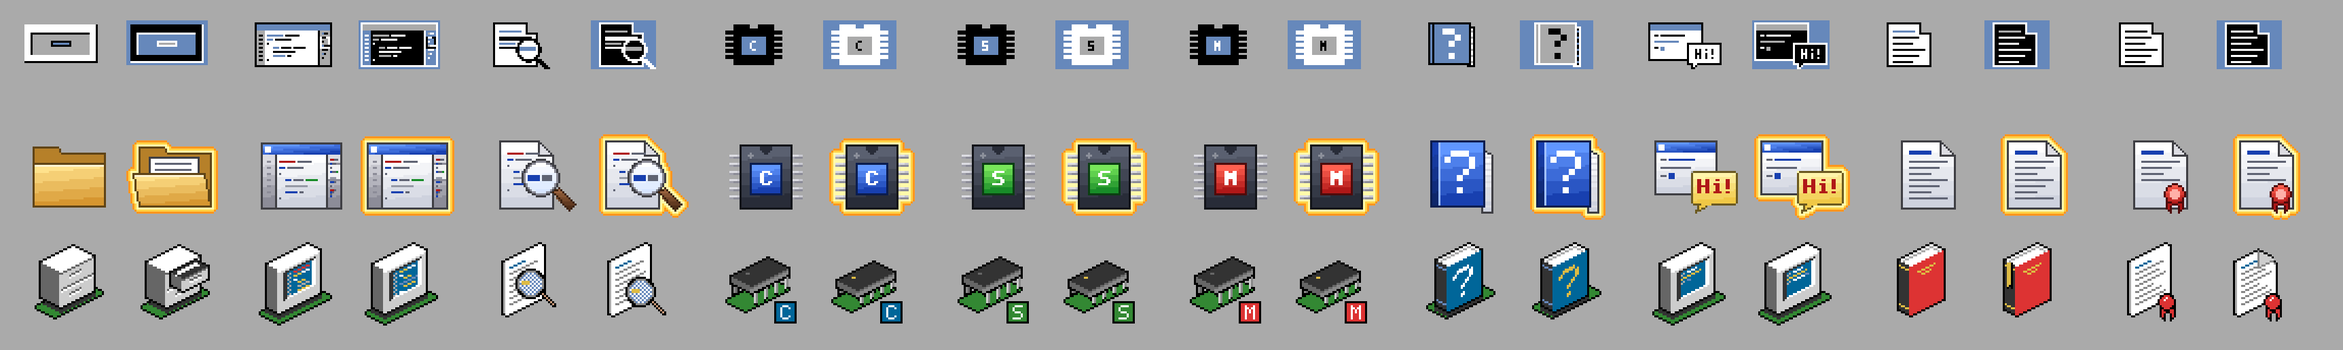
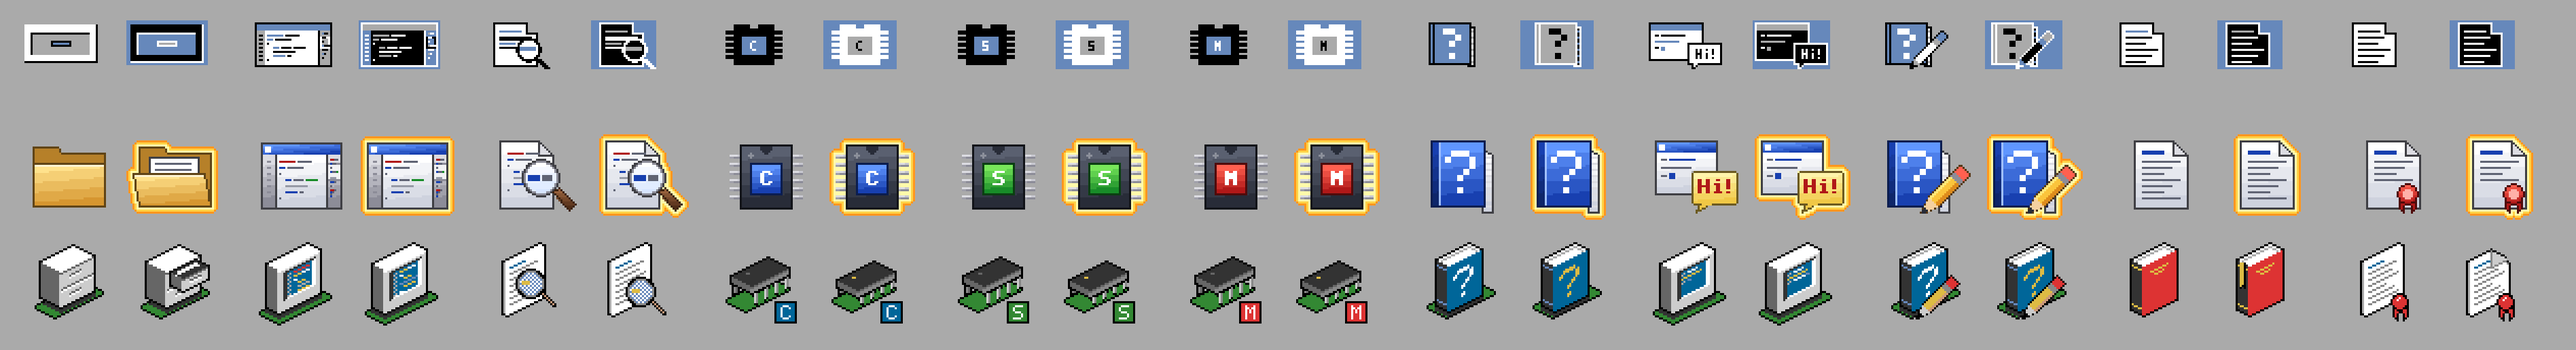
Template HelpProject: help pages in Markdown
Writing a help for the HelpViewer should start from a working project, so
the new template brings a small tree of Markdown pages, the page frame
template.html and the commands of the Build menu. Build and Run reach
mdtohtml and the HelpViewer through {tinydev}, as neither is on the
command path. Rebuild also removes Help/, since the normal build only
reports pages without a source and never deletes anything.

Run starts a new viewer each time on purpose: with PORTNAME a running viewer
of the same drawer only comes to the front and would keep showing the old
page while the author checks a change.

The template's icon is the HelpViewer's handbook with a pencil, drawn at
45 degrees so that its edges fall on the pixel grid.

diff --git a/templates/HelpProject/files/template.html b/templates/HelpProject/files/template.html
@@ -1,0 +1,13 @@
+<!DOCTYPE html>
+<html>
+<head>
+<meta charset="$encoding$">
+<title>$title$</title>
+</head>
+<body>
+<!-- A picture on every page: put it into src/images/ and use the line below;
+     the placeholder finds it from pages in any drawer.
+     <img src="$root$images/logo.png" alt=""> -->
+$body$
+</body>
+</html>

diff --git a/tools/mkicons.py b/tools/mkicons.py
@@ -15,11 +15,13 @@
 #   helpviewer a blue handbook with a question mark on its cover
 #   hello      a Shell window that says "Hi!" in a speech bubble (the
 #              template HelloWorld)
+#   helppages  the handbook of the HelpViewer with a pencil that writes it
+#              (the template HelpProject)
 #
 # Run directly (or "make icons") to write sample icons of all styles to
-# icons/<Style>/ and a preview picture icons/preview.png, and the icon of
-# the template HelloWorld (templates/HelloWorld/template.info, GlowIcons
-# with the classic picture for older systems).
+# icons/<Style>/ and a preview picture icons/preview.png, and the icons of
+# the templates HelloWorld and HelpProject (templates/<Id>/template.info,
+# GlowIcons with the classic picture for older systems).
 
 import os, sys
 
@@ -186,6 +188,52 @@ def pic_hello():
     return c
 
 
+def pencil(put, tx, ty, length, half, colours):
+    """ a pencil at 45 degrees, its tip at (tx, ty), pointing to the lower
+        left. u runs along it (one diagonal step is 2), v across it, so its
+        edges fall exactly on the pixel grid. half: half its width in v.
+        colours: edge, lead, wood, body (light, middle, dark across it),
+        band and eraser.                                                 """
+    tip = 3 * half + 1
+    lead = half + 2
+    for u in range(length + 1):
+        w = min(half, u // 3)
+        for v in range(-w - 1, w + 2):
+            if (u + v) % 2:
+                continue
+            if abs(v) > w or u == length:
+                p = colours['edge']
+            elif u < lead:
+                p = colours['lead']
+            elif u < tip:
+                p = colours['wood']
+            elif u >= length - 6:
+                p = colours['eraser']
+            elif u >= length - 10:
+                p = colours['band']
+            else:
+                p = colours['body'][0 if v < -half // 3 else 2 if v > half // 3 else 1]
+            put(tx + (u + v) // 2, ty - (u - v) // 2, p)
+
+
+def pic_helppages():
+    c = ai.Canvas(38, 24)
+    c.rect(22, 3, 25, 22, 2)                  # the handbook: pages, cover
+    for y in range(5, 22, 3):
+        c.rect(23, y, 25, y, 0)
+    c.frame(22, 3, 25, 22, 1, 1)
+    c.rect(3, 1, 23, 21, 3)
+    c.frame(3, 1, 23, 21, 1, 1)
+    c.rect(5, 1, 5, 21, 1)
+    for dy, row in enumerate(SMALL['?']):
+        for dx, p in enumerate(row):
+            if p == '#':
+                c.rect(9 + 3 * dx, 4 + 3 * dy, 11 + 3 * dx, 6 + 3 * dy, 2)
+    pencil(lambda x, y, p: c.rect(x, y, x, y, p), 15, 23, 34, 2,
+           {'edge': 1, 'lead': 1, 'wood': 0, 'body': (2, 2, 2), 'band': 0, 'eraser': 3})
+    return c
+
+
 # --------------------------------------------- GlowIcons motifs ---
 
 def m_tinydev(s, c):
@@ -255,6 +303,26 @@ def m_hello(s, c):
         glyph(c, x, 21, letter, RED[1])
         glyph(c, x + 1, 21, letter, RED[1])
         x += len(GLYPHS[letter][0]) + 3
+
+
+def m_helppages(s, c):
+    m_book = BLUE
+    pages = [(26, 6), (31, 9), (31, 37), (26, 37)]
+    c.poly(pages, s.ramp(*PAPER)(26, 6, 31, 37), s.line(GREY[1]))
+    for y in range(10, 36, 3):
+        c.line(27, y, 30, y, GREY[0])
+    c.rect(1, 2, 27, 34, s.line(m_book[1]))                     # the cover
+    c.rect(2, 3, 26, 33, s.ramp(*m_book)(2, 3, 26, 33))
+    c.rect(2, 3, 4, 33, s.ramp(m_book[1], ai.mix(m_book[1], BLACK, 0.4))(2, 3, 4, 33))
+    c.line(5, 3, 5, 33, ai.mix(m_book[0], WHITE, 0.4))
+    for dy, row in enumerate(GLYPHS['?']):
+        for dx, p in enumerate(row):
+            if p == '#':
+                c.rect(8 + 3 * dx, 7 + 3 * dy, 10 + 3 * dx, 9 + 3 * dy, WHITE)
+    pencil(c.put, 17, 38, 44, 4,
+           {'edge': (84, 56, 24), 'lead': (40, 44, 56), 'wood': (244, 208, 160),
+            'body': ((255, 232, 120), (250, 196, 60), (222, 140, 28)),
+            'band': GREY[1], 'eraser': RED[0]})
 
 
 def ring(c, cx, cy, r, colour):
@@ -389,6 +457,16 @@ def n_hello(c, sel):
     ai.n_monitor(c, screen, sel)
 
 
+def n_helppages(c, sel):
+    """ the handbook of the HelpViewer on its platform, a pencil in front of
+        it; selected: the question mark lights up yellow, as there         """
+    n_helpviewer(c, sel)
+    pencil(c.put, 18, 38, 38, 3,
+           {'edge': BLACK, 'lead': BLACK, 'wood': ai.N_G204,
+            'body': (ai.N_YELLOW, ai.N_YELLOW, ai.N_TAN),
+            'band': ai.N_G136, 'eraser': ai.N_RED})
+
+
 def ni_parser(letter, colour):
     def n(c, sel):
         """ a chip on its platform, pins along its long side, the language
@@ -448,6 +526,7 @@ ai.register('tinydev', pic_tinydev, m_tinydev, n_tinydev)
 ai.register('scout', pic_scout, m_scout, n_scout)
 ai.register('helpviewer', pic_helpviewer, m_helpviewer, n_helpviewer)
 ai.register('hello', pic_hello, m_hello, n_hello)
+ai.register('helppages', pic_helppages, m_helppages, n_helppages)
 PARSER_C = parser('C')
 PARSER_DOS = parser('S', GREEN, ai.N_GREEN)    # AmigaDOS scripts
 PARSER_MAKE = parser('M', RED, ai.N_RED)       # Makefiles
@@ -455,7 +534,7 @@ PARSER_MAKE = parser('M', RED, ai.N_RED)       # Makefiles
 
 # ---------------------------------------------------------------- samples ---
 
-ROLES = ('drawer', 'tinydev', 'scout', PARSER_C, PARSER_DOS, PARSER_MAKE, 'helpviewer', 'hello', 'readme', 'license')
+ROLES = ('drawer', 'tinydev', 'scout', PARSER_C, PARSER_DOS, PARSER_MAKE, 'helpviewer', 'hello', 'helppages', 'readme', 'license')
 
 SAMPLES = (('Drawer', 'drawer', WBDRAWER, {}),
            ('TinyDev', 'tinydev', WBTOOL, {'stack': 32768}),
@@ -465,12 +544,14 @@ SAMPLES = (('Drawer', 'drawer', WBDRAWER, {}),
            ('make_parser', PARSER_MAKE, WBTOOL, {'stack': 16384}),
            ('HelpViewer', 'helpviewer', WBTOOL, {'stack': 32768}),
            ('HelloWorld', 'hello', WBPROJECT, {}),
+           ('HelpProject', 'helppages', WBPROJECT, {}),
            ('ReadMe', 'readme', WBPROJECT, {'default_tool': 'SYS:Utilities/MultiView'}),
            ('License', 'license', WBPROJECT, {'default_tool': 'SYS:Utilities/MultiView'}))
 
 
 if __name__ == '__main__':
     ai.write_samples(os.path.join(ROOT, 'icons'), SAMPLES, ROLES)
-    # the template's icon, shown by TinyDev's wizard
-    write_icon(os.path.join(ROOT, 'templates', 'HelloWorld', 'template'), 'GlowIcons', 'hello', WBPROJECT)
-    print('template icon written to templates/HelloWorld/template.info')
+    # the templates' icons, shown by TinyDev's wizard
+    for tid, role in (('HelloWorld', 'hello'), ('HelpProject', 'helppages')):
+        write_icon(os.path.join(ROOT, 'templates', tid, 'template'), 'GlowIcons', role, WBPROJECT)
+        print('template icon written to templates/%s/template.info' % tid)

diff --git a/tests/test_sprout_tmpl.c b/tests/test_sprout_tmpl.c
@@ -511,6 +511,42 @@ static void test_text(void)
 }
 
 /**
+ * @brief The template templates/HelpProject: its metadata is valid and the
+ *        project's commands keep TinyDev's own placeholder.
+ */
+static void test_shipped_help(void)
+{
+    SproutTemplate t;
+    SproutValues given, out;
+    char json[4096];
+    char *name, *line;
+    size_t n;
+    int bad;
+    FILE *f = fopen("templates/HelpProject/template.json", "rb");
+    assert(f != NULL);
+    n = fread(json, 1, sizeof(json) - 1, f);
+    fclose(f);
+    json[n] = '\0';
+    reset();
+    assert(sprout_template_parse(&t, json, report, NULL) == 1);
+    sprout_values_init(&given);
+    assert(sprout_values_parse_assign(&given, "AUTHOR=Me") == 1);
+    assert(sprout_resolve(&t, &given, "My Help", 17835, &out, report, NULL) == 1);
+    assert(errors == 0 && warnings == 0);
+    assert(strcmp(sprout_values_get(&out, "TITLE"), "My Help") == 0);
+    assert(t.nopen == 1);
+    name = sprout_expand_path(t.open[0], &out, &bad);
+    assert(name != NULL && strcmp(name, "src/index.md") == 0);
+    free(name);
+    line = sprout_expand("{tinydev}mdtohtml $root$ {$TITLE}", 33, &out, NULL);
+    assert(line != NULL && strcmp(line, "{tinydev}mdtohtml $root$ My Help") == 0);
+    free(line);
+    sprout_values_free(&out);
+    sprout_values_free(&given);
+    sprout_template_free(&t);
+}
+
+/**
  * @brief The template that comes with TinyDev (templates/HelloWorld): its
  *        metadata is valid, and its values and names come out right.
  */
@@ -594,6 +630,7 @@ int main(void)
     test_paths();
     test_text();
     test_shipped();
+    test_shipped_help();
     puts("sprout template tests passed");
     return 0;
 }

diff --git a/AGENTS.md b/AGENTS.md
@@ -216,7 +216,8 @@ below the tree's root.
   -lh0-/-lh4- to -lh7-, CRCs; host-tested in `tests/test_sprout_lha.c`).
   Its design is `src/sprout/docs/Sprout.md`. Like Scout it must not
   depend on TinyDev.
-- `templates/`: the templates that come with TinyDev (HelloWorld, a
+- `templates/`: the templates that come with TinyDev (HelpProject, help
+  pages in Markdown built with `mdtohtml`; HelloWorld, a
   project; CModule, a file template) (`templates/<Id>/`
   with `template.json` and `files/`, ISO-8859-1); `make` copies them to
   `bin/Templates/` with `cp` and checks them with `charcheck-templates`,
@@ -265,7 +266,7 @@ below the tree's root.
 - `tests/test_projconf.c`: host-native tests of the project settings.
 - `tests/test_filetypes.c`: host-native tests of the settings per file type.
 - `tests/test_sprout_tmpl.c`: host-native tests of Sprout's core (also
-  reads `templates/HelloWorld/template.json`).
+  reads the `template.json` of `templates/HelloWorld` and `templates/HelpProject`).
 - `tests/test_sprout_lha.c`: host-native tests of the LhA reader with the
   archives of `tests/data/sprout/` (binary, left out of `charcheck`),
   made by `tools/mksprouttests.py` with jlha.
@@ -295,9 +296,9 @@ below the tree's root.
   unchanged and without our warning flags. Do not edit it; its licence
   requires the credit in `README.md`.
 - `tools/mkicons.py`: motifs of the Workbench icons (TinyDev, Scout, parsers,
-  HelpViewer, the template HelloWorld)
+  HelpViewer, the templates HelloWorld and HelpProject)
   for `amiga-devkit/tools/amigaicons.py`; `make icons` writes `icons/` and
-  `templates/HelloWorld/template.info`. These files are generated, never
+  `templates/<Id>/template.info` of both. These files are generated, never
   edited by hand.
 - `package/`: what the Aminet archive needs besides the build:
   `TinyDev.readme` (the Aminet readme, ISO-8859-1, at most 78 columns) and

diff --git a/src/sprout/docs/Sprout.md b/src/sprout/docs/Sprout.md
@@ -131,7 +131,7 @@ A placeholder entry:
   `{$I file}`, `{$H+}`): only the exact form `{$KEY}` or `{$KEY:modifier}`
   is a placeholder, and keys are upper case only.
 - It does not clash with TinyDev's build placeholders (`{project}`,
-  `{file}`, `{base}` in `project.json`), which a template's `project.json`
+  `{tinydev}`, `{file}`, `{base}` in `project.json`), which a template's `project.json`
   must keep, nor with `${VAR}` in Makefiles or `$VAR` in AmigaDOS scripts.
 
 **Escaping:** a placeholder written with one more `$` is not replaced but

diff --git a/templates/HelpProject/files/src/1-getting-started.md b/templates/HelpProject/files/src/1-getting-started.md
@@ -1,0 +1,16 @@
+# Getting started
+
+A page is a Markdown file. It can have **bold** and *italic* text, `code`,
+lists and tables:
+
+| Key | What it does |
+|---|---|
+| Amiga+E | builds the pages |
+| Amiga+R | shows them |
+
+## A section
+
+Headings are anchors, too: [the first page of the chapter](2-chapter/1-a-page.md#details)
+goes straight to a heading of another page.
+
+Back to the [home page](index.md).

diff --git a/templates/HelpProject/files/src/2-chapter/1-a-page.md b/templates/HelpProject/files/src/2-chapter/1-a-page.md
@@ -1,0 +1,12 @@
+# A page
+
+Links work across drawers: [Getting started](../1-getting-started.md),
+[the section there](../1-getting-started.md#a-section).
+
+## Details
+
+```
+code blocks keep their lines
+```
+
+Back to the [chapter](index.md).

diff --git a/templates/HelpProject/files/src/index.md b/templates/HelpProject/files/src/index.md
@@ -1,0 +1,8 @@
+# {$TITLE}
+
+Welcome. This is the home page; replace it with an introduction.
+
+* [Getting started](1-getting-started.md)
+* [A chapter](2-chapter/index.md)
+
+Written by {$AUTHOR}.

diff --git a/templates/HelpProject/files/src/2-chapter/index.md b/templates/HelpProject/files/src/2-chapter/index.md
@@ -1,0 +1,6 @@
+# A chapter
+
+A drawer is a chapter, and this file is its page. In the HelpViewer's tree
+the chapter shows this page's title.
+
+* [A page of this chapter](1-a-page.md)
